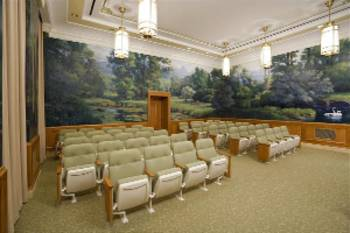
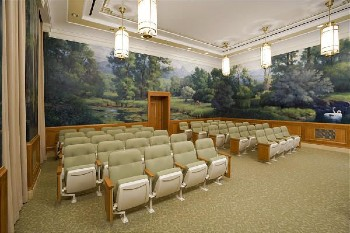
w10 COMPLETE

diff --git a/wdd130/project/templespotlight.html b/wdd130/project/templespotlight.html
@@ -29,7 +29,7 @@
 
     <main>
         <div class="banner-box">
-            <img class="banner" src="images/panorexburghero.jpg" alt="Hero Image">
+            <img class="banner" src="images/pano2.jpg" alt="Hero Image">
             <div class="spotlight">
                 <h2>Temple Spotlight</h2>
                 <h3>Rexburg, Idaho</h3>

diff --git a/wdd130/project/css/style.css b/wdd130/project/css/style.css
@@ -232,7 +232,7 @@ footer {
             /* Match form field borders */
             border: 1px solid #999;
         }
-        #guests:focus, {
+        #guests:focus {
             border-color: #000;
         }
 
